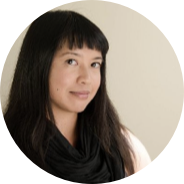
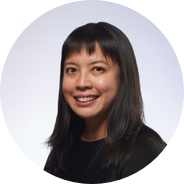
update company portraits

diff --git a/src/css/pages/company.sass b/src/css/pages/company.sass
@@ -42,13 +42,19 @@ $flexItemPadding: 24px
     text-align: center
     background: transparent
     p.name
-      font-size: 30px
+      font-size: 28px
       color: $nitrousDark
       text-align: center
+      padding: 0
+      margin: 10px 0 0 0
+
     p.title
       font-size: 18px
       color: $nitrousDark3
       text-align: center
+      line-height: 14px
+      height: 15px
+
     p.bio
       color: $nitrousDark2
       font-size: 18px
